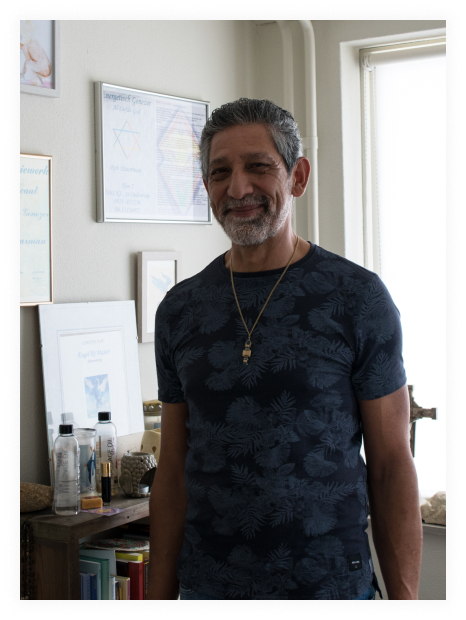
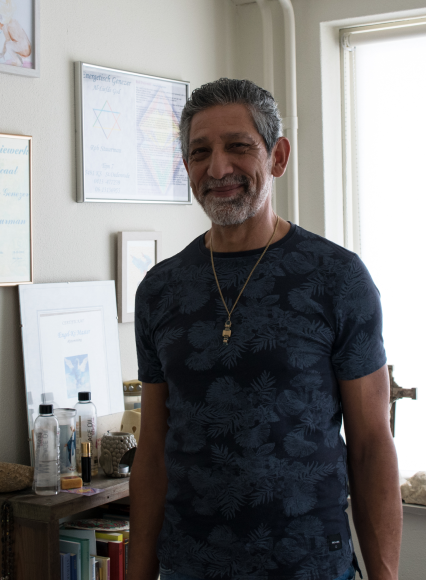
about block

diff --git a/pages/index.vue b/pages/index.vue
@@ -1,6 +1,6 @@
 <template lang="pug">
 v-container
-	v-row.float-left
+	v-row.float-left.mb-16
 		v-col.offset-xl-1(md="6")
 			h1 Energetisch genezen
 			.title1 Steeds heb ik een innerlijke gedrevenheid gevoeld om mensen bij te staan en langs spirituele weg te genezen.
@@ -12,13 +12,48 @@ v-container
 			portal(to="destination" v-bind:disabled="$vuetify.breakpoint.lgAndUp")
 				event.mt-16
 		v-col.text-lg-left.text-center(md="4")
-			img.zen(src="~/assets/zen.png")
+			img(src="~/assets/zen.png")
 		v-col
 			portal-target(name="destination")
-	
+	v-row
+		v-col.offset-md-1.d-flex(cols="12" md="5" order-md="2")
+			.about-me
+				h1 Over Rob Stuurman
+				.title2.mb-6 Ik stel me graag even voor
+				p Ik ben geboren op 19 september 1957 te Hollandia, Nieuw Guinea. In [jaartal] zijn we met onze ouders verhuisd naar Nederland. Mijn praktijk voor Energetisch genezen voer ik in Sint-Oedenrode. Om dit uit te mogen voeren heb ik in [jaartal] bij het
+					span.focus  Instituut voor energiewerk Mirre
+					|  de opleiding tot regressietherapeut gevolgd en vervolgens de genezersopleiding afgerond.
+		v-col.offset-1.offset-md-1(cols="10" md="4" order-md="1")
+			.about-picture
+				v-img.image-shadow(:src="require('~/assets/rob.png')")
 
 </template>
 
-<script>
-export default {}
-</script>
+<style lang="sass">
+.about-picture
+	position: relative
+	margin-top: 80px
+	@media #{map-get($display-breakpoints, 'sm-and-down')}
+		margin-top: 64px
+	&::before
+		content: ""
+		z-index: 1
+		position: absolute
+		background-color: var(--v-skin-base)
+		width: calc(100% + 80px)
+		height: 100%
+		left: -40px
+		top: -40px
+		@media #{map-get($display-breakpoints, 'sm-and-down')}
+			width: calc(100% + 48px)
+			left: -24px
+			top: -24px
+	div
+		z-index: 10
+
+.about-me
+	display: flex
+	flex-direction: column
+	justify-content: space-around
+	margin: auto
+</style>

diff --git a/assets/variables.sass b/assets/variables.sass
@@ -26,6 +26,9 @@ $btn-letter-spacing: 0
 .default-shadow
 	box-shadow: 0px 0px 4px 4px rgba(0, 0, 0, 0.04)
 
+.image-shadow
+	box-shadow: 0px 0px 16px 4px rgba(0, 0, 0, 0.04)
+
 .v-application
 	font-family: $body-font-family, sans-serif !important
 	color: var(--v-primary-base) !important
@@ -51,7 +54,7 @@ h2, .h2
 
 .title2
 	font-family: $heading-font-family
-	font-size: $line-height-root
+	font-size: 32px
 	line-height: 44px
 
 p, span

diff --git a/components/main-nav.vue b/components/main-nav.vue
@@ -30,7 +30,7 @@ nav
 	flex-direction: row
 	border-radius: 8px
 	justify-content: space-between
-	z-index: 10
+	z-index: 20
 	background-color: #FFF
 
 	@media #{map-get($display-breakpoints, 'sm-and-down')}
